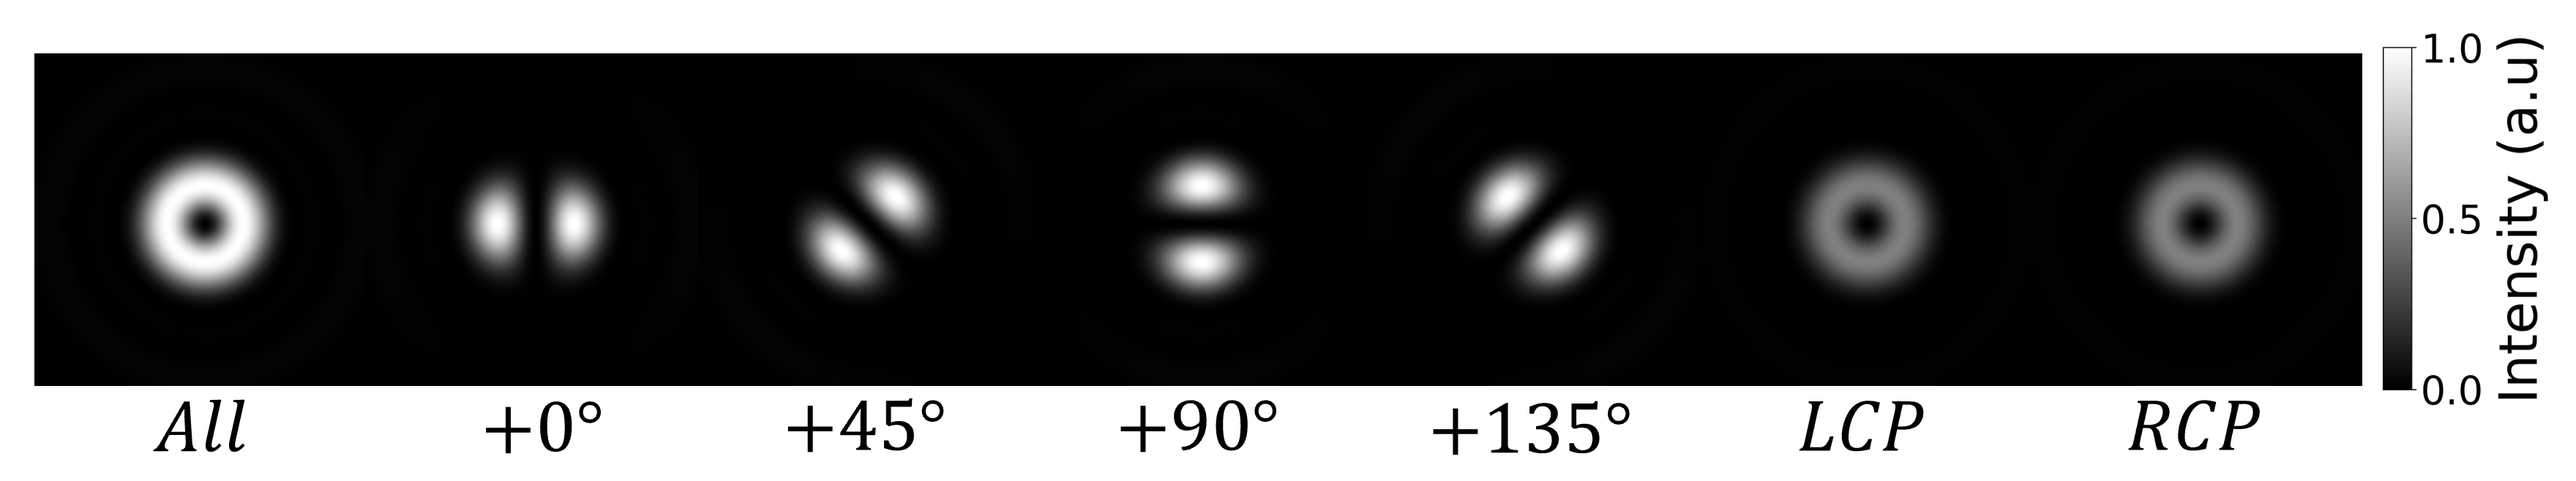
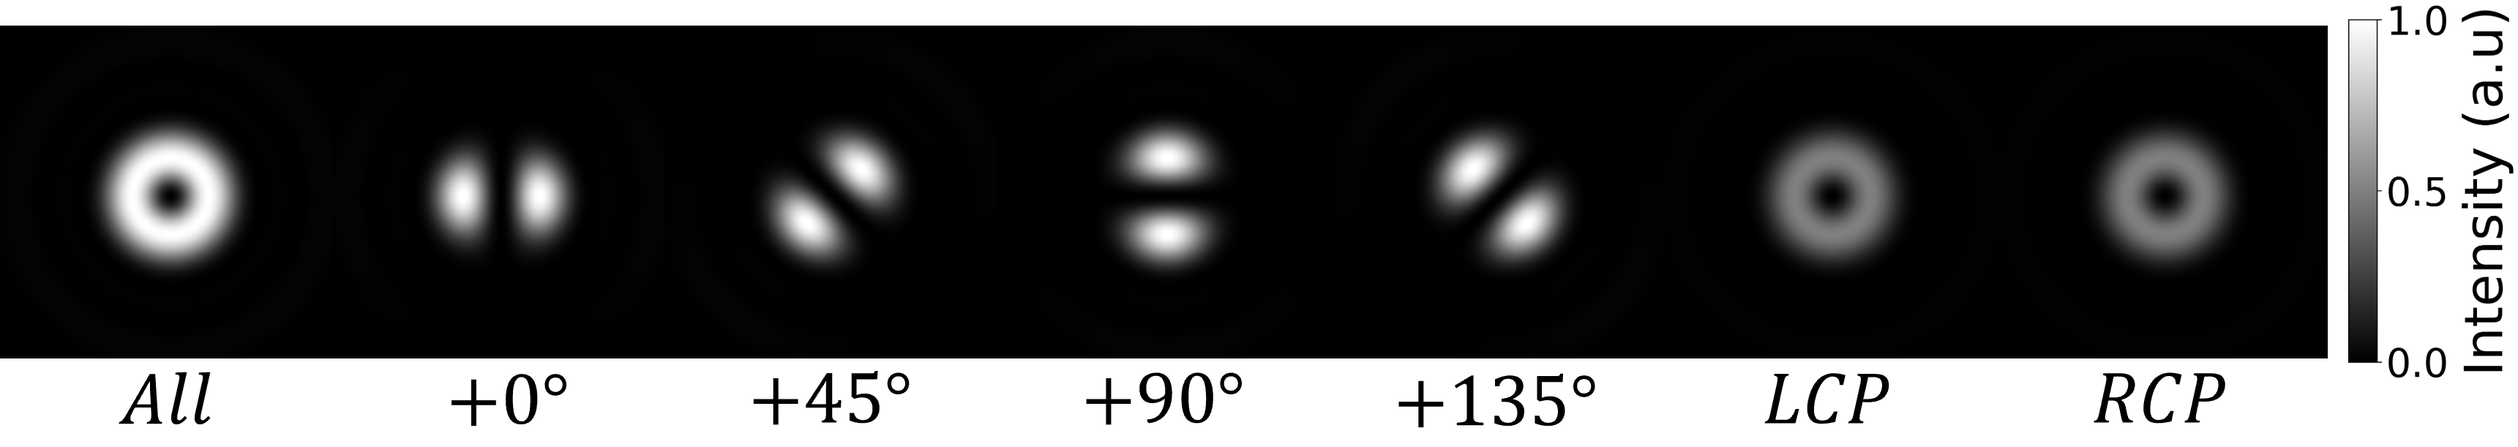
kkk#	modified:   vector_beam/markdown/research.md

diff --git a/vector_beam/markdown/research.md b/vector_beam/markdown/research.md
@@ -6,8 +6,8 @@
 
 <div style="text-align: center;">
   <img src="https://raw.githubusercontent.com/esk0ik3/esk0ik3.github.io/main/vector_beam/fig/sim_radial_intensity.png" 
-       style="width: 100%; background-color: transparent !important; border: none !important; box-shadow: none !important;">
-  <p style="margin-top: 10px; font-size: 0.9em;">ラジアル偏光ビームの各偏光状態の光強度(シミュレーション)</p>
+       style="width: 100%; background-color: white !important; padding: 10px; border: none !important; box-shadow: none !important; border-radius: 4px;">
+  <p style="margin-top: 10px; font-size: 0.8em;">ラジアル偏光ビームの各偏光状態の光強度(シミュレーション)</p>
 </div>
 
 しかし，実験では様々な要因によって，以下のようなラジアル偏光ビームになってしまいます．
